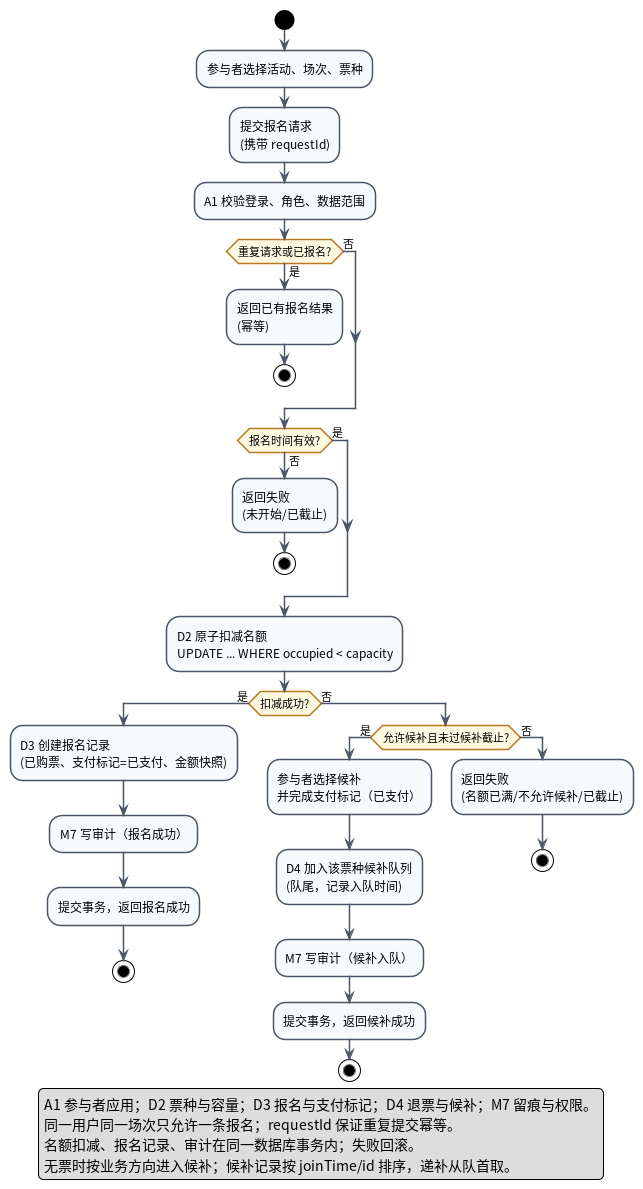
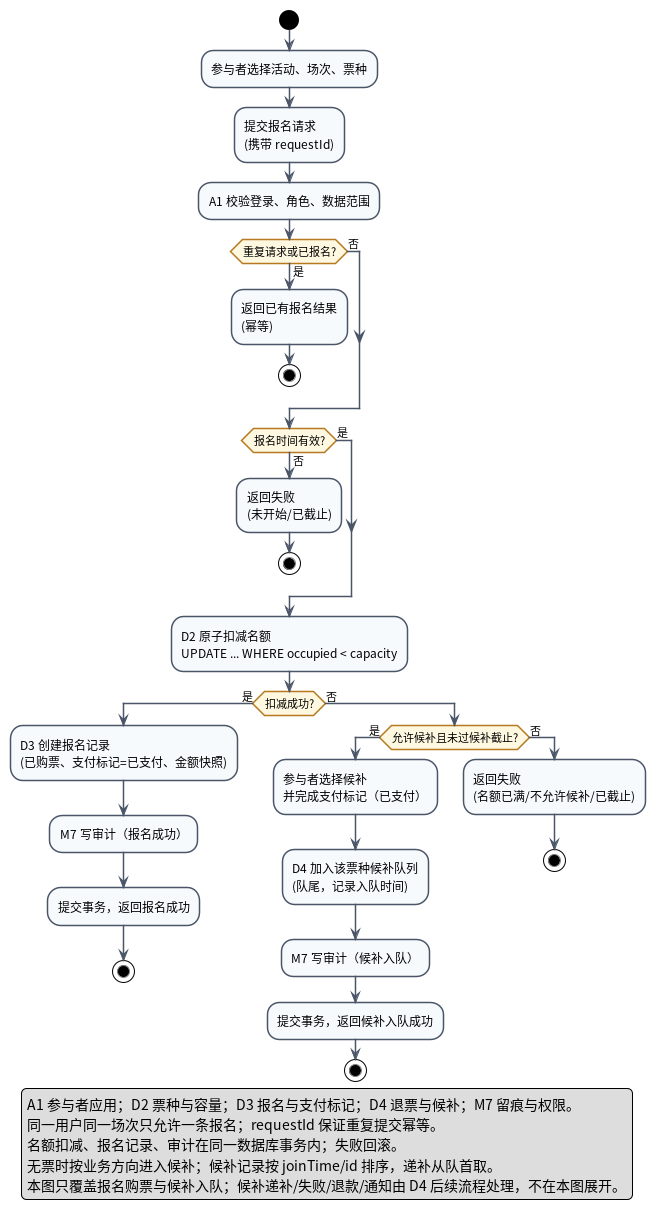
lab2: 补充活动图范围说明
- “候补成功”改为“候补入队成功”
- 图例和说明明确本图只覆盖报名购票/候补入队
- 候补递补、失败、退款、通知由 D4 后续流程处理

Changed region(s): [[0.0, 0.0, 0.9953, 0.9958]]

diff --git a/lab2/AI使用记录.md b/lab2/AI使用记录.md
@@ -322,3 +322,22 @@
   - 问题：第一版使用 5 条泳道，分支跨泳道时连线严重打结；第二版减为 3 条泳道仍有交叉；最终改为单列流程 + 模块前缀，可读性才稳定。仍待人工审查分支条件是否完整。
 - **人工修改优化后的结果**：待人工审查后填写。
 - **对应 Git 提交**：`bceee1b`（活动图初稿）。
+
+---
+
+## 使用记录 17：补充活动图范围说明
+
+- **时间**：2026-10-31
+- **使用场景**：用户指出，读者容易把“候补”理解成已经候补成功/拿到票；需要说明本活动图只处理报名购票和候补入队，候补后续的递补/失败/退款/通知是分开的流程。
+- **输入（用户反馈要点，按原意记录）**：
+  - “这个图只是处理我们购票活动的流程；至于候补是否成功，后面的处理逻辑和购票活动是分开的……很可能看到这个图下意识想要带上候补的结果。”
+- **AI 的处理**：
+  - 将活动图中的“返回候补成功”改为“返回候补入队成功”，避免把“入队”误读成“候补成功买到票”；
+  - 图例增加：“本图只覆盖报名购票与候补入队；候补递补/失败/退款/通知由 D4 后续流程处理，不在本图展开”；
+  - `活动图说明.md` 增加“范围说明”，明确候补入队成功只表示进入队列，不表示最终能买到票；
+  - 检查项改为“报名成功/候补入队成功是否都在事务提交后才返回”。
+- **优点/问题**：
+  - 优点：读者不会把活动图误解为包含候补最终结果；活动图的边界清楚，候补后续逻辑留给退票与候补模块/状态图。
+  - 问题：活动图只到候补入队，候补递补流程需要另画或由状态图表达；这一点已在范围说明中写明。
+- **人工修改优化后的结果**：按用户意见补充范围说明，并区分“候补入队成功”和“候补最终成功”。
+- **对应 Git 提交**：待提交（活动图范围说明）。

diff --git a/lab2/UML/活动图说明.md b/lab2/UML/活动图说明.md
@@ -15,6 +15,8 @@
 
 它和用例图的区别：用例图只表达“参与者可以报名购票、候补”，不表达先后顺序；活动图表达流程和分支。
 
+> **范围说明**：本图只覆盖“报名购票”和“加入候补队列”这一段流程；候补入队之后是否递补成功、候补截止失败、退款、通知等，属于退票与候补模块的后续流程，不在本图展开。图中的“候补入队成功”只表示成功进入队列，不表示最终能买到票。
+
 ## 2. 流程说明
 
 | 步骤 | 动作 | 负责模块 | 说明 |
@@ -33,7 +35,7 @@
 | 12 | 选择候补并完成支付标记 | 参与者 + D4 | 支付标记=已支付 |
 | 13 | 加入该票种候补队列 | D4 | 队尾，记录入队时间 |
 | 14 | 写审计（候补入队） | M7 | 关键操作留痕 |
-| 15 | 提交事务，返回候补成功 | A1/D4 | 事务提交后返回 |
+| 15 | 提交事务，返回候补入队成功 | A1/D4 | 仅表示成功加入候补队列 |
 
 ## 3. 关键设计点
 
@@ -55,5 +57,5 @@
 2. 截止时间是否在扣名额之前判断；
 3. 名额扣减失败后是否才进入候补；
 4. 候补是否要求“允许候补且未过截止”；
-5. 报名/候补成功是否都在事务提交后才返回；
+5. 报名成功/候补入队成功是否都在事务提交后才返回；
 6. 审计是否覆盖报名成功和候补入队。
